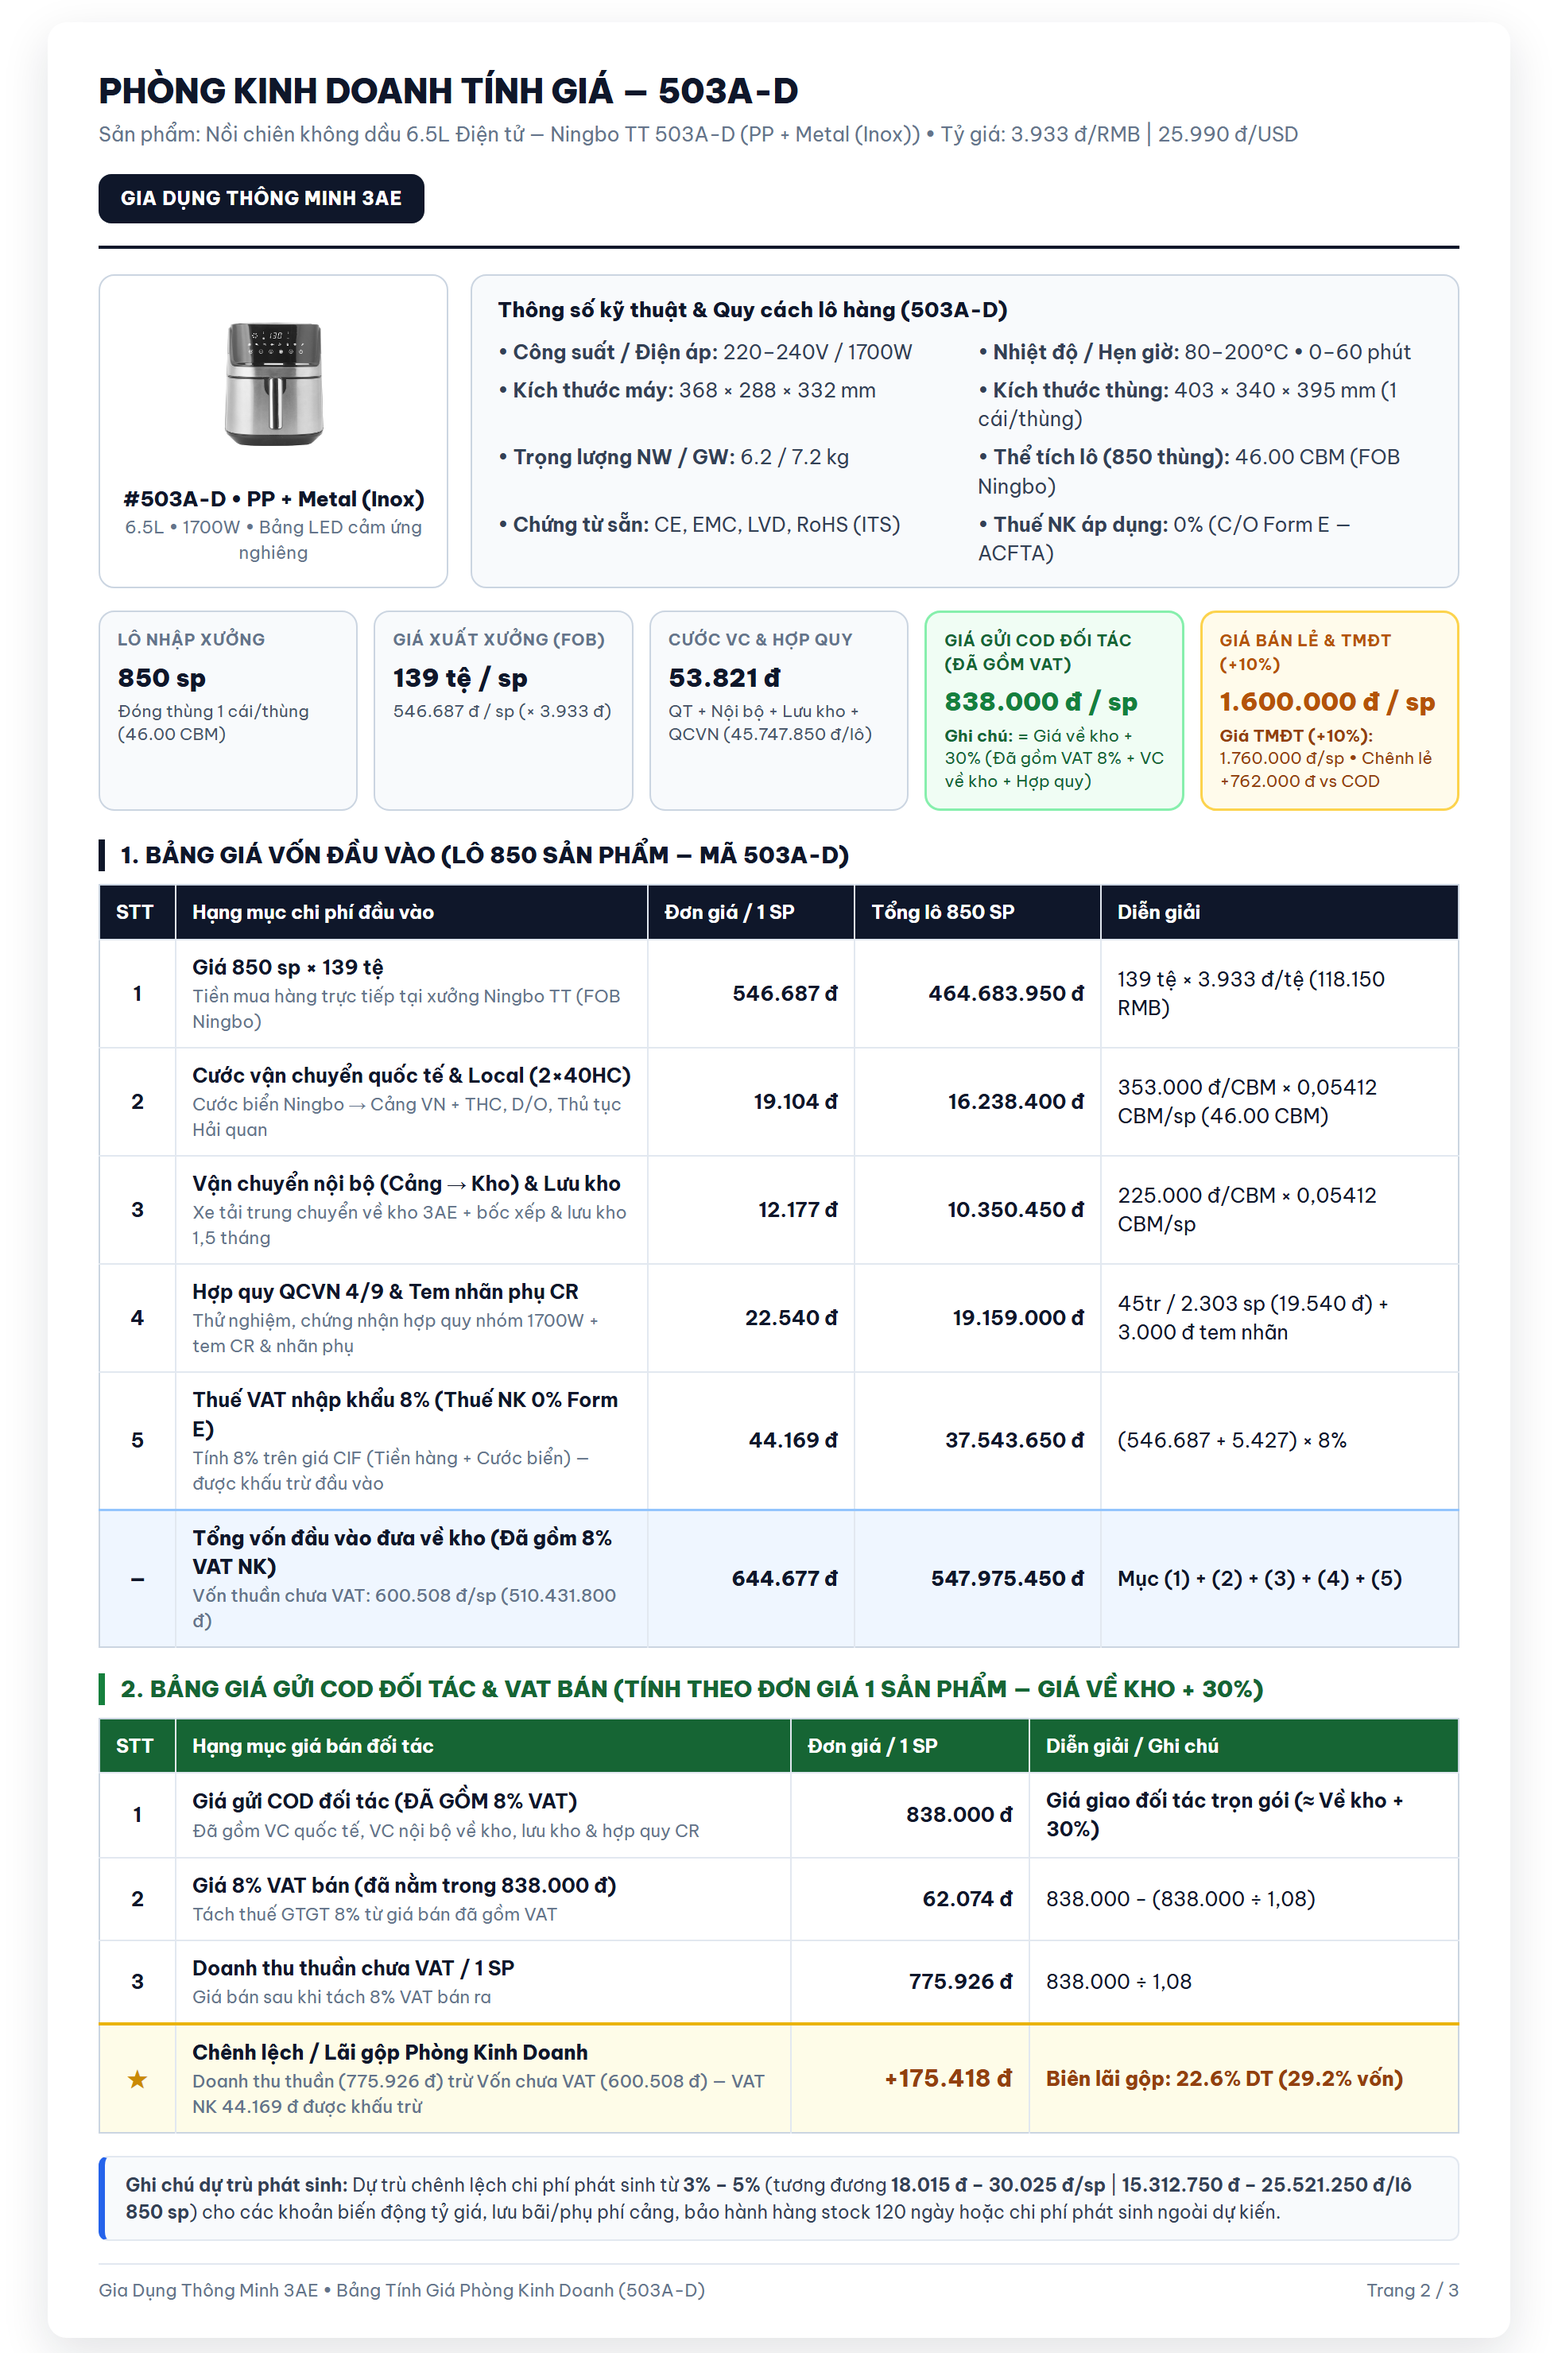
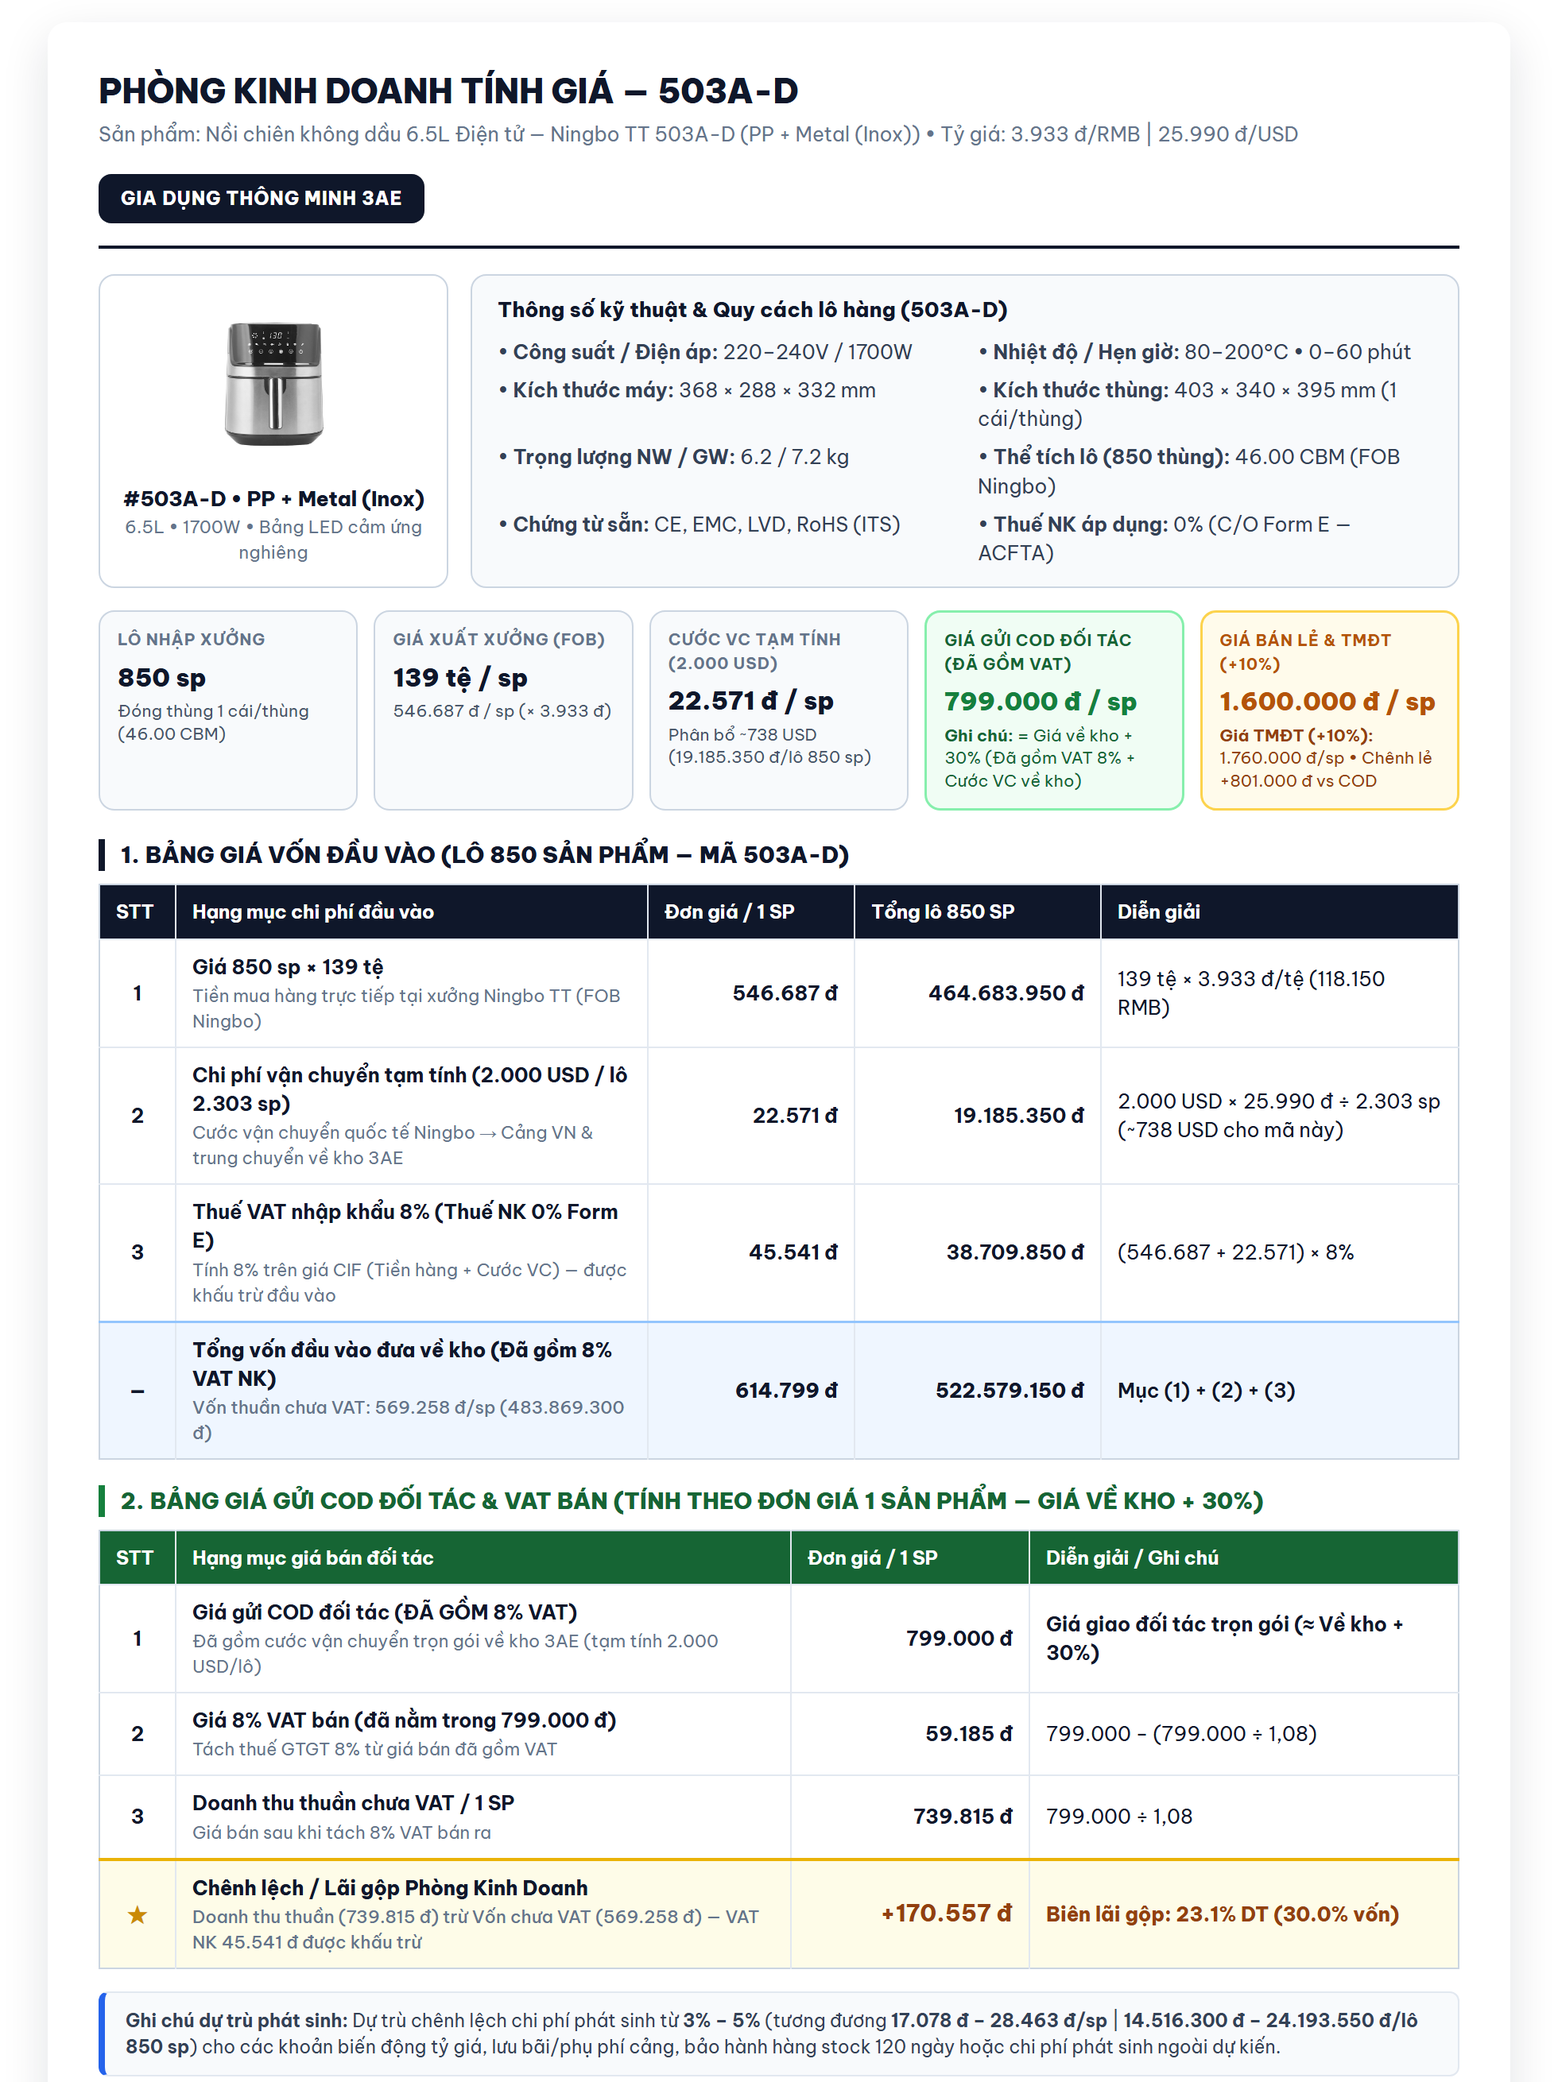
pricing: set flat 2,000 USD shipping and remove QCVN row in 3 SKU PNG sheets

diff --git a/Du_An_Noi_Chien_Ningbo_TT/Bang_Tinh_Gia_PKD_3_Ma.html b/Du_An_Noi_Chien_Ningbo_TT/Bang_Tinh_Gia_PKD_3_Ma.html
@@ -346,11 +346,11 @@
   <script>
     const EXCHANGE_RMB = 3933;
     const EXCHANGE_USD = 25990;
+    const TOTAL_LOT_QTY = 2303;
+    const SHIPPING_TOTAL_USD = 2000; // Tạm tính 2.000 USD cho cả lô 2.303 sp
+    const SHIPPING_TOTAL_VND = SHIPPING_TOTAL_USD * EXCHANGE_USD; // 51.980.000 đ
+    const SHIPPING_PER_UNIT = Math.round(SHIPPING_TOTAL_VND / TOTAL_LOT_QTY); // 22.571 đ/sp
     const CBM_PER_UNIT = 0.05412;
-    const FREIGHT_CIF_PER_CBM = 100280; // Ocean freight ~12.5tr / 124.65 CBM
-    const INTL_LOG_PER_UNIT = Math.round(353000 * CBM_PER_UNIT); // 19.104 đ/sp (2x40HC + Local + HQ)
-    const LOCAL_WH_PER_UNIT = Math.round(225000 * CBM_PER_UNIT); // 12.177 đ/sp (VC nội bộ + Lưu kho 1.5 tháng)
-    const QCVN_LABEL_PER_UNIT = 19540 + 3000; // 22.540 đ/sp (45tr hợp quy / 2.303 sp + 3k tem CR/nhãn phụ)
     const B2C_PRICE = 999000;
 
     const PRODUCTS = [
@@ -406,9 +406,8 @@
       const container = document.getElementById("sheetsContainer");
       container.innerHTML = PRODUCTS.map(p => {
         const fobVnd = p.fobRmb * EXCHANGE_RMB;
-        const cifFreight = Math.round(FREIGHT_CIF_PER_CBM * CBM_PER_UNIT);
-        const vatImport = Math.round((fobVnd + cifFreight) * 0.08);
-        const costExVat = fobVnd + INTL_LOG_PER_UNIT + LOCAL_WH_PER_UNIT + QCVN_LABEL_PER_UNIT;
+        const costExVat = fobVnd + SHIPPING_PER_UNIT;
+        const vatImport = Math.round(costExVat * 0.08);
         const costWithVat = costExVat + vatImport;
 
         // Giá gửi COD đối tác = Giá về kho (+VAT) + 30% (làm tròn nghìn đồng)
@@ -423,13 +422,12 @@
 
         const totalFobRmb = p.qty * p.fobRmb;
         const totalFobVnd = p.qty * fobVnd;
-        const totalIntl = p.qty * INTL_LOG_PER_UNIT;
-        const totalLocal = p.qty * LOCAL_WH_PER_UNIT;
-        const totalQcvn = p.qty * QCVN_LABEL_PER_UNIT;
+        const totalShip = p.qty * SHIPPING_PER_UNIT;
         const totalVatIn = p.qty * vatImport;
         const totalCostWithVat = p.qty * costWithVat;
         const totalCostExVat = p.qty * costExVat;
         const totalCbm = (p.qty * CBM_PER_UNIT).toFixed(2);
+        const allocUsd = ((p.qty / TOTAL_LOT_QTY) * SHIPPING_TOTAL_USD).toFixed(0);
 
         const res3Unit = Math.round(costExVat * 0.03);
         const res5Unit = Math.round(costExVat * 0.05);
@@ -479,14 +477,14 @@
                 <div class="kpi-note">${fmt(fobVnd)} / sp (× ${EXCHANGE_RMB.toLocaleString("vi-VN")} đ)</div>
               </div>
               <div class="kpi-box">
-                <div class="kpi-lbl">Cước VC &amp; Hợp quy</div>
-                <div class="kpi-val">${fmt(INTL_LOG_PER_UNIT + LOCAL_WH_PER_UNIT + QCVN_LABEL_PER_UNIT)}</div>
-                <div class="kpi-note">QT + Nội bộ + Lưu kho + QCVN (${fmt(totalIntl + totalLocal + totalQcvn)}/lô)</div>
+                <div class="kpi-lbl">Cước VC tạm tính (2.000 USD)</div>
+                <div class="kpi-val">${fmt(SHIPPING_PER_UNIT)} / sp</div>
+                <div class="kpi-note">Phân bổ ~${allocUsd} USD (${fmt(totalShip)}/lô ${p.qty} sp)</div>
               </div>
               <div class="kpi-box green">
                 <div class="kpi-lbl">Giá gửi COD đối tác (Đã gồm VAT)</div>
                 <div class="kpi-val">${fmt(codPrice)} / sp</div>
-                <div class="kpi-note"><strong>Ghi chú:</strong> = Giá về kho + 30% (Đã gồm VAT 8% + VC về kho + Hợp quy)</div>
+                <div class="kpi-note"><strong>Ghi chú:</strong> = Giá về kho + 30% (Đã gồm VAT 8% + Cước VC về kho)</div>
               </div>
               <div class="kpi-box amber">
                 <div class="kpi-lbl">Giá bán lẻ &amp; TMĐT (+10%)</div>
@@ -520,42 +518,22 @@
                 <tr>
                   <td class="tc"><strong>2</strong></td>
                   <td>
-                    <div class="item-main">Cước vận chuyển quốc tế &amp; Local (2×40HC)</div>
-                    <div class="item-sub">Cước biển Ningbo → Cảng VN + THC, D/O, Thủ tục Hải quan</div>
+                    <div class="item-main">Chi phí vận chuyển tạm tính (2.000 USD / lô 2.303 sp)</div>
+                    <div class="item-sub">Cước vận chuyển quốc tế Ningbo → Cảng VN &amp; trung chuyển về kho 3AE</div>
                   </td>
-                  <td class="tr"><strong>${fmt(INTL_LOG_PER_UNIT)}</strong></td>
-                  <td class="tr"><strong>${fmt(totalIntl)}</strong></td>
-                  <td>353.000 đ/CBM × 0,05412 CBM/sp (${totalCbm} CBM)</td>
+                  <td class="tr"><strong>${fmt(SHIPPING_PER_UNIT)}</strong></td>
+                  <td class="tr"><strong>${fmt(totalShip)}</strong></td>
+                  <td>2.000 USD × ${EXCHANGE_USD.toLocaleString("vi-VN")} đ ÷ 2.303 sp (~${allocUsd} USD cho mã này)</td>
                 </tr>
                 <tr>
                   <td class="tc"><strong>3</strong></td>
                   <td>
-                    <div class="item-main">Vận chuyển nội bộ (Cảng → Kho) &amp; Lưu kho</div>
-                    <div class="item-sub">Xe tải trung chuyển về kho 3AE + bốc xếp &amp; lưu kho 1,5 tháng</div>
-                  </td>
-                  <td class="tr"><strong>${fmt(LOCAL_WH_PER_UNIT)}</strong></td>
-                  <td class="tr"><strong>${fmt(totalLocal)}</strong></td>
-                  <td>225.000 đ/CBM × 0,05412 CBM/sp</td>
-                </tr>
-                <tr>
-                  <td class="tc"><strong>4</strong></td>
-                  <td>
-                    <div class="item-main">Hợp quy QCVN 4/9 &amp; Tem nhãn phụ CR</div>
-                    <div class="item-sub">Thử nghiệm, chứng nhận hợp quy nhóm 1700W + tem CR &amp; nhãn phụ</div>
-                  </td>
-                  <td class="tr"><strong>${fmt(QCVN_LABEL_PER_UNIT)}</strong></td>
-                  <td class="tr"><strong>${fmt(totalQcvn)}</strong></td>
-                  <td>45tr / 2.303 sp (19.540 đ) + 3.000 đ tem nhãn</td>
-                </tr>
-                <tr>
-                  <td class="tc"><strong>5</strong></td>
-                  <td>
                     <div class="item-main">Thuế VAT nhập khẩu 8% (Thuế NK 0% Form E)</div>
-                    <div class="item-sub">Tính 8% trên giá CIF (Tiền hàng + Cước biển) — được khấu trừ đầu vào</div>
+                    <div class="item-sub">Tính 8% trên giá CIF (Tiền hàng + Cước VC) — được khấu trừ đầu vào</div>
                   </td>
                   <td class="tr"><strong>${fmt(vatImport)}</strong></td>
                   <td class="tr"><strong>${fmt(totalVatIn)}</strong></td>
-                  <td>(${fmt(fobVnd).replace(" đ","")} + ${fmt(cifFreight).replace(" đ","")}) × 8%</td>
+                  <td>(${fmt(fobVnd).replace(" đ","")} + ${fmt(SHIPPING_PER_UNIT).replace(" đ","")}) × 8%</td>
                 </tr>
                 <tr class="row-total">
                   <td class="tc">—</td>
@@ -565,7 +543,7 @@
                   </td>
                   <td class="tr">${fmt(costWithVat)}</td>
                   <td class="tr">${fmt(totalCostWithVat)}</td>
-                  <td style="font-weight:600">Mục (1) + (2) + (3) + (4) + (5)</td>
+                  <td style="font-weight:600">Mục (1) + (2) + (3)</td>
                 </tr>
               </tbody>
             </table>
@@ -585,7 +563,7 @@
                   <td class="tc"><strong>1</strong></td>
                   <td>
                     <div class="item-main">Giá gửi COD đối tác (ĐÃ GỒM 8% VAT)</div>
-                    <div class="item-sub">Đã gồm VC quốc tế, VC nội bộ về kho, lưu kho &amp; hợp quy CR</div>
+                    <div class="item-sub">Đã gồm cước vận chuyển trọn gói về kho 3AE (tạm tính 2.000 USD/lô)</div>
                   </td>
                   <td class="tr"><strong>${fmt(codPrice)}</strong></td>
                   <td><strong>Giá giao đối tác trọn gói (≈ Về kho + 30%)</strong></td>
